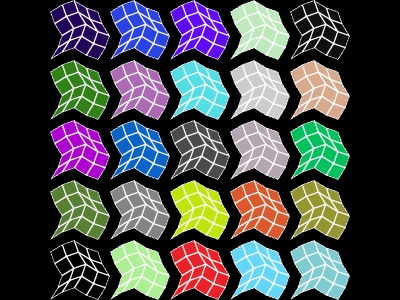
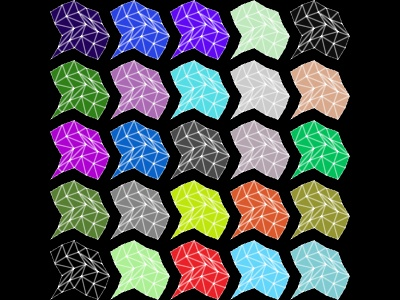
alternating grid triangulation, wireframe()

diff --git a/swissgl.js b/swissgl.js
@@ -197,6 +197,12 @@ const frag_utils = `
 float isoline(float v) {
     float distToInt = abs(v-round(v));
     return smoothstep(max(fwidth(v), 0.0001), 0.0, distToInt);
+}
+float wireframe() {
+    vec2 m = UV*vec2(Mesh);
+    float d1 = isoline(m.x+m.y), d2 = isoline(m.x-m.y);
+    float d = mix(d1, d2, float(int(m.y)%2));
+    return isoline(m.x)+isoline(m.y)+d;
 }`;
 
 function guessUniforms(params) {
@@ -272,9 +278,12 @@ function linkShader(gl, params, code, include) {
     #define varying out
     ${prefix} ${vert}
     void main() {
-      int rowVertN = Mesh.x*2+4;
-      int rowVertI = clamp((VertexID%rowVertN)-1, 0, rowVertN-3);
-      VID = ivec2(rowVertI>>1, VertexID/rowVertN + (rowVertI&1));
+      int rowVertN = Mesh.x*2+3;
+      int rowI = VertexID/rowVertN;
+      int rowVertI = max(VertexID%rowVertN-1, 0);
+      int odd = rowI%2;
+      if (odd==1) rowVertI = rowVertN-rowVertI-2;
+      VID = ivec2(rowVertI>>1, rowI + (rowVertI+odd)%2);
       ID = ivec2(InstanceID%Grid.x, InstanceID/Grid.x);
       UV = vec2(VID) / vec2(Mesh);
       vec4 v = vertex();
@@ -522,7 +531,7 @@ function drawQuads(self, params, code, target) {
     // Grid, Mesh
     uniforms.Grid = options.Grid || [1, 1]; // 1d, 3d
     uniforms.Mesh = options.Mesh || [1, 1]; // 3d for cube?
-    const vertN = (uniforms.Mesh[0]*2+4)*uniforms.Mesh[1]-1;
+    const vertN = (uniforms.Mesh[0]*2+3)*uniforms.Mesh[1];
     const instN = uniforms.Grid[0]*uniforms.Grid[1];
     ensureVertexArray(gl, Math.max(vertN, instN));
     gl.bindVertexArray(gl._indexVA);

diff --git a/demo/MeshGrid.js b/demo/MeshGrid.js
@@ -16,9 +16,7 @@ class MeshGrid {
         }
         //FRAG
         void fragment() {
-            vec2 m = UV*vec2(Mesh);
-            float iso = isoline(m.x)+isoline(m.y);
-            out0 = vec4(mix(color, vec3(1.0), iso), 1.0);
+            out0 = vec4(mix(color, vec3(1.0), wireframe()*0.5), 1.0);
         }`);
     }
 }
